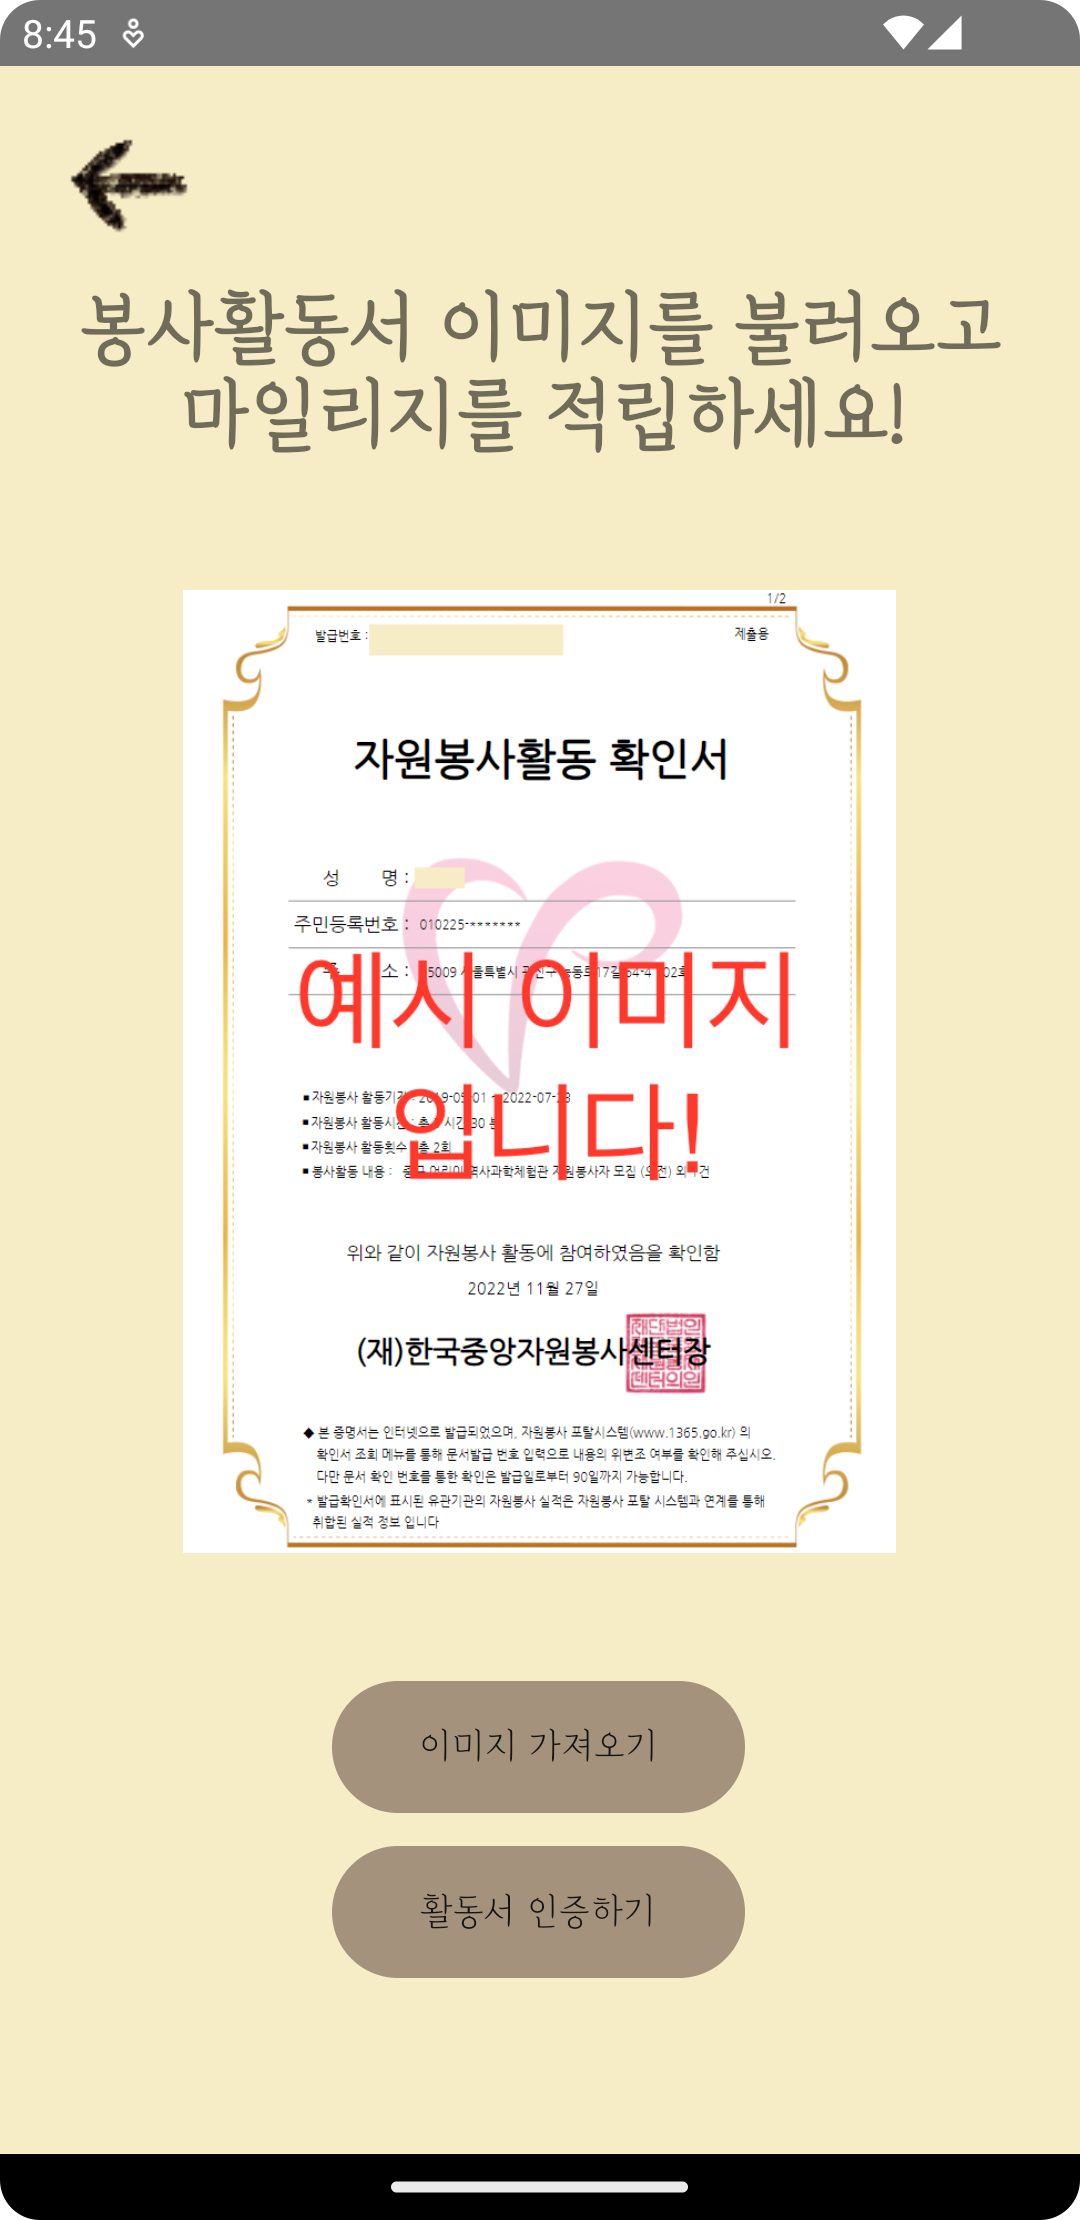
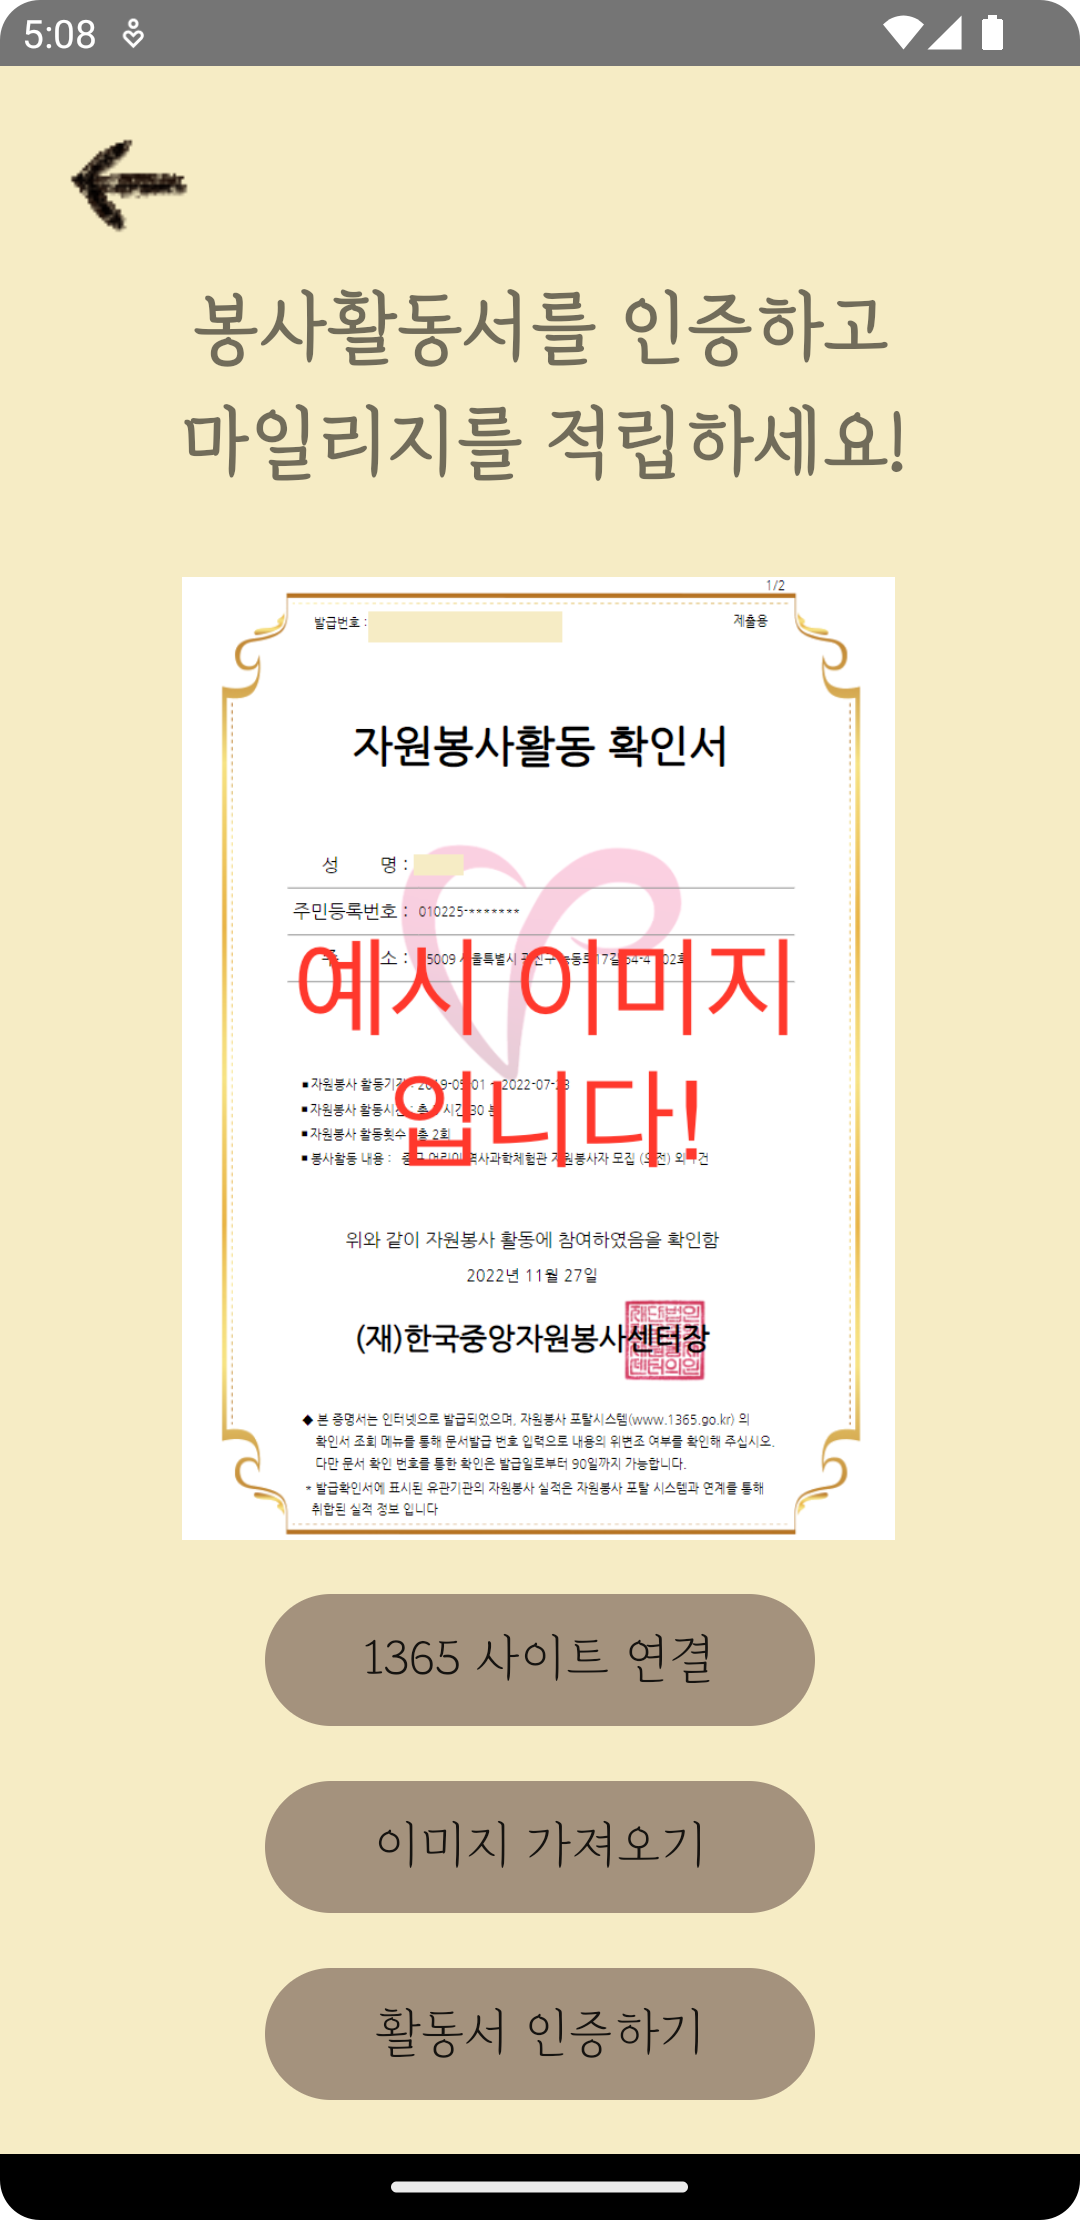
asd

diff --git a/app/src/main/java/com/example/myapplication/ocr/OCRActivity.kt b/app/src/main/java/com/example/myapplication/ocr/OCRActivity.kt
@@ -75,6 +75,10 @@ class OCRActivity : AppCompatActivity() {
         recognizer = TextRecognition.getClient(KoreanTextRecognizerOptions.Builder().build())
 
         binding.backButton.setOnClickListener{finish()}
+        binding.btn1365.setOnClickListener {
+            val intent = Intent(Intent.ACTION_VIEW, Uri.parse("https://www.1365.go.kr/vols/main.do"));
+            startActivity(intent)
+        }
 
         // GET IMAGE 버튼
         btn_get_image = binding.btnGetImage;
@@ -158,7 +162,6 @@ class OCRActivity : AppCompatActivity() {
                 time = s[6].split("\n")[0]
                 where = s[8].split("\n")[0]
                 userName = s[2].split("\n")[0]
-                    println(issueNum + date + time + where + userName)
                  } catch (e : Exception){
                      Toast.makeText(this,"올바르지 않은 봉사 확인서입니다.", Toast.LENGTH_SHORT).show()
                  }
